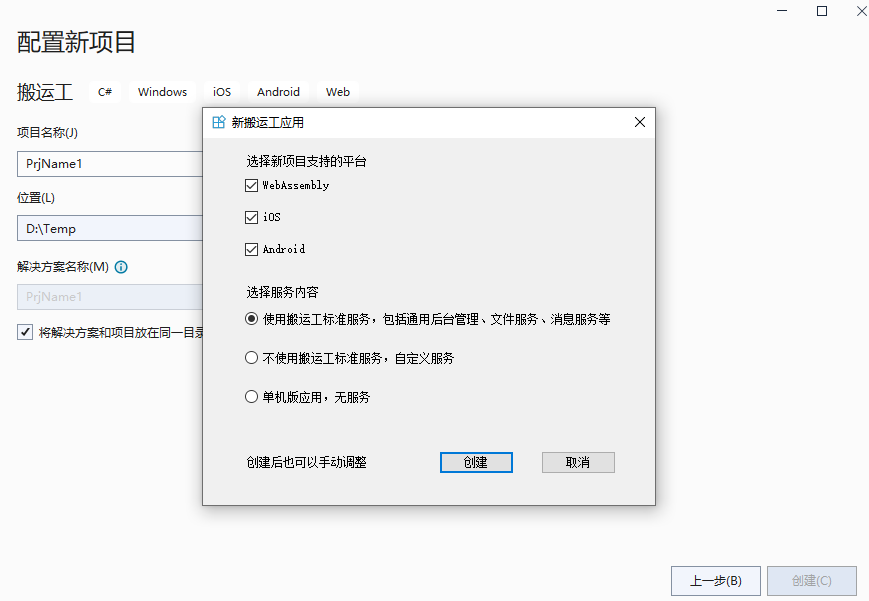
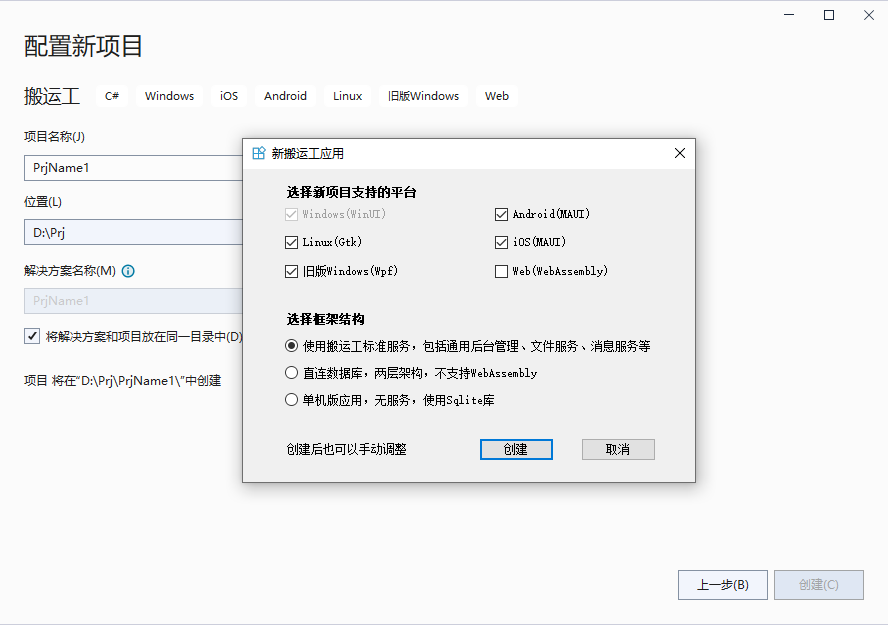
创建空项目

diff --git a/content/1开始/2创建项目/_index.md b/content/1开始/2创建项目/_index.md
@@ -19,13 +19,84 @@ tags: []
 1. 编辑器顶部的横幅可能会要求重新加载项目，单击“重新加载项目”：
 ![](3.png)
 
-1. 至此项目创建成功！
+**至此项目创建成功！**
+
+## 解决方案目录
+解决方案根目录如图所示：
+
+![](3a.png)
+
+* PrjName1.sln 所有客户端项目，4个目标框架
+* PrjName1-svc.sln 只服务
+* PrjName1-win.sln 只net-windows框架
+* PrjName1-android.sln 只net-android框架
+* PrjName1-ios.sln 只net-ios框架
+* PrjName1-skia.sln 只net框架，gtk和wpf项目
+* PrjName1-wasm.sln 只net框架，wasm项目
+
+{{< admonition >}}
+为提高效率，开发时使用 PrjName1-win.sln ，适配不同平台时再打开对应 sln
+{{< /admonition >}}
+
 
 ## 初始化数据库
-搬运工平台包含`cm fsm msg`三个基础微服务，这些服务包括基础菜单、用户、角色、权限、工作流、参数、文件等功能模块，是平台必不可少的基础服务，这些服务用到的数据结构需要在此初始化。
+搬运工平台包含cm fsm msg三个基础微服务，这些服务包括基础菜单、用户、角色、权限、工作流、参数、文件等功能模块，是平台必不可少的基础服务，这些服务用到的数据结构需要在此初始化。
 
-1. 打开Svc项目中的 etc/config/service.json 文件，将顶部的`Mode`节设置为`InitDb`，初始化数据库模式：
-![](30.png)
+平台提供两种方法进行数据库初始化：**通过客户端初始化、通过服务初始化。**
+
+### 通过客户端初始化
+
+{{< admonition >}}
+通过客户端初始化数据库没有连接服务，是纯粹的两层结构，直连数据库
+{{< /admonition >}}
+
+1. VS打开解决方案PrjName1-win.sln，将PrjName1.Win 项目设为启动项目，ctrl + F5 启动应用，因为未启动服务，所以客户端启动后会提示服务器连接失败。
+
+　　![](a1.png)
+
+2. 按下快捷键：ctrl + enter 唤出系统面板，点击**数据库初始化**
+![](a2.png)
+
+1.  显示**数据库初始化**向导，选择您需要的数据库类型，填写连接参数，每种库的参数略有不同，点击连接按钮
+![](a3.png)
+
+1. 连接失败时给出提醒，连接成功后新页面，失败时请根据提醒重新填写参数
+![](a4.png)
+
+1. 填写库名及用户名、密码，三个按钮的功能：
+* 创建新库：将删除旧库重新创建新库
+* 删除库：即删除当前存在的旧库、用户、表空间等，慎用！
+* 连接库导入：表示用当前的用户名、密码登录该库，执行sql脚本
+
+6. 选择创建新库时，若库或用户已存在，将提示确认是否删除旧库重新创建，为避免误操作需要3次确认，底部日志会输出整个创建过程及创建空库成功的消息
+
+　　![](a5.png)
+
+　　![](a6.png)
+
+7. 点击 **连接库导入** 进入新页面，两个按钮：导入初始表结构及数据、导入其它
+![](a7.png)
+
+8. **导入初始表结构及数据** 就是本次初始化数据库的操作，导入前同样提示确认删除同名的表、视图等，通过日志查看导入过程及连接串
+
+　　![](a8.png)
+
+9. **导入其它** 可以选择自己的sql脚本文件，比如搬运工样例的sql脚本文件、自己业务系统的sql文件等
+
+　　![](a9.png)
+
+至此通过客户端初始化数据库完毕！
+
+### 通过服务初始化
+
+{{< admonition >}}
+通过服务初始化只支持导入平台默认初始表结构及数据，无法导入外部sql脚本文件
+{{< /admonition >}}
+
+1. VS打开解决方案PrjName1-svc.sln，打开 etc/config/service.json 文件，将顶部的Mode节设置为InitDb，初始化数据库模式：
+
+![](a10.png)
+
 {{< highlight json "hl_lines=6 9" >}}
 {
   // 设置运行模式，共三种，默认Svc模式
@@ -37,25 +108,28 @@ tags: []
 }
 {{< /highlight >}}
 
-1. 将Svc项目设置为启动项目，ctrl + F5 启动服务，自动打开 https://localhost:1234/.admin 页面:
-![](35.png)
+2. ctrl + F5 启动服务，自动打开 https://localhost:1234/.admin 页面:
+![](a11.png)
 
-1. 选择您需要的数据库类型，填写连接参数，每种库的参数略有不同，点击`连接`按钮
-![](36.png)
+3. 选择您需要的数据库类型，填写连接参数，每种库的参数略有不同，点击连接按钮
+![](a12.png)
 
-1. 连接失败时给出提醒，连接成功后进入创建新库页面
-![](37.png)
+4. 连接失败时给出提醒，连接成功后进入导入库、创建新库页面
+![](a13.png)
 
-1. 填写新库名及新用户名，选择新库内容：
-* `标准库`是搬运工的初始库，包括基础的表、视图、序列、存储过程等；
-* `空库`就是只创建新库，无任何内容；
-* `样例库`是搬运工样例使用的库，除标准库的内容外，还包括测试数据、样例用到的表、视图等；
-![](38.png)
+5. 填写库名及用户名、密码
 
-6. 点击`创建新库`，若库已存在，提示确认是否删除旧库重新创建，避免误操作，底部的日志会输出整个初始化过程及新库的连接串：
-![](39.png)
+　　![](a14.png)
 
-1. 数据库初始化成功后，复制新库的连接串，打开Svc项目的 etc/config/global.json 文件，将连接串粘贴到`Database`节，注意数据库类型一致。global.json 文件存储全局配置，包括应用名称、所有涉及的数据库连接串、rabbitmq配置、redis配置等，是系统内所有微服务需要的公共配置。数据库连接串可以为多个，并支持4种类型数据库，每个服务的默认库是这其中的一个。
+6. 选择**创建新库**时，若库或用户已存在，将提示确认是否删除旧库重新创建，避免误操作，底部的日志会输出整个初始化过程及新库的连接串
+
+　　![](a15.png)
+
+7. 选择**导入库**时将删除旧的同名表、视图等，底部日志会输出整个导入过程细节及库的连接串
+
+　　![](a16.png)
+
+8. 数据库初始化成功后，复制新库的连接串，打开Svc项目的 etc/config/global.json 文件，将连接串粘贴到`Database`节，注意数据库类型一致。global.json 文件存储全局配置，包括应用名称、所有涉及的数据库连接串、rabbitmq配置、redis配置等，是系统内所有微服务需要的公共配置。数据库连接串可以为多个，并支持4种类型数据库，每个服务的默认库是这其中的一个。
 {{< highlight json "hl_lines=5 10 16" >}}
 {
   "App": "PrjName1",
@@ -97,75 +171,139 @@ tags: []
 }
 {{< /highlight >}}
 
-1. 至此初始化数据库完毕！
+至此初始化数据库完毕！
 
-1. 查看Svc项目的 Properties/InitSql/目录下的`sql脚本`，也可以通过手动运行这些`sql脚本`初始化数据库。
-![](34.png)
+## 配置客户端
 
-1. 通过数据库客户端工具查看初始表，4种数据库的初始结构略有不同，如mysql中无序列通过`sequence`模拟：
-![](5.png)
-
-## 启动服务
-1. 将Svc项目设置为启动项目，先确保服务能正常运行，以便客户端连接和使用搬运工扩展添加框架代码
-![](4.png)
-
-1. 生成Svc项目，确保生成成功
-
-1. 开始执行(不调试)(Ctrl + F5)，成功后会打开浏览器显示API目录页面，点击日志可查看启动过程：
-![](8.png)
-
-1. 始终保持Svc运行状态，以备客户端App运行时连接
-
-{{< admonition >}}
-在客户端App运行之前，需要设置服务地址，打开Client项目的 `Stub/AppStub.cs` 文件，将SvcUrl修改为本机IP
-![](12.png)
+{{< admonition>}}
+搬运工客户端支持三种运行模式：单机、两层直连数据库、多层微服务
+* 单机版独立运行，无服务，可使用Sqlite本地库
+* 直连数据库，两层架构，无服务，不支持WebAssembly
+* 多层微服务，使用自定义服务和搬运工标准服务(内核服务、消息服务、文件服务)
 {{< /admonition >}}
 
-## 运行 Windows App
-1. 将Win项目设置为启动项目，F5启动调试，初次运行会显示用户协议和隐私政策对话框
-![](9.png)
+三种运行模式可在Shared项目的Config.json中配置
 
-1. 点击`同意`后进入登录页面，输入预留手机号 `13511111111` ，点击`获取验证码`后，在`验证码`框内 Ctrl + v粘贴，然后点击`登 录`，登录成功后进入主页，若失败可双击标题查看系统日志
-![](10.png)
+![](a17.png)
 
-1. 登录成功后显示主页
+{{< highlight json >}}
+{
+  "Title": "搬运工",
 
-![](11.png "主页")
+  // cm服务地址 或 直连数据库的键名
+  "Server": "https://10.10.1.16:1234",
+  //"Server": "pgdt",
 
-## 运行 Android App
-1. 将Droid项目设置为启动项目，初次运行需要添加Android设备，打开 `Android -> Android设备管理器` 添加设备，创建虚拟机时采用以下镜像不需要另外下载
+  // 可直连数据库列表
+  "Database": {
+    "mydt": {
+      "ConnStr": "Server=10.10.1.2;Port=3306;Database=dt;Uid=dt;Pwd=dt;",
+      "DbType": "mysql"
+    },
+    "orcldt": {
+      "ConnStr": "User Id=dt;Password=dt;Data Source=(DESCRIPTION=(ADDRESS=(PROTOCOL=TCP)(HOST=10.10.1.2)(PORT=1521))(CONNECT_DATA=(SERVICE_NAME=sec)(SERVER=dedicated)))",
+      "DbType": "oracle"
+    },
+    "sqldt": {
+      "ConnStr": "Data Source=10.10.1.2,1433;Initial Catalog=dt;User ID=dt;Password=dt;Encrypt=True;TrustServerCertificate=True;",
+      "DbType": "sqlserver"
+    },
+    "pgdt": {
+      "ConnStr": "Host=10.10.1.2;Port=5432;Database=dt;Username=dt;Password=dt;",
+      "DbType": "postgresql"
+    }
+  }
+}
+{{< /highlight >}}
+
+单机模式只需要指定Title，并且AppStub继承DefaultStub
+
+{{< highlight json >}}
+{
+  "Title": "搬运工",
+}
+{{< /highlight >}}
+
+![](a18.png)
+
+默认将配置成多层微服务模式
+
+{{< highlight json "hl_lines=5" >}}
+{
+  "Title": "搬运工",
+
+  // cm服务地址
+  "Server": "https://10.10.1.16:1234"
+}
+{{< /highlight >}}
+
+## 启动服务
+
+{{< admonition >}}
+本项目以多层微服务模式运行，首先启动服务
+{{< /admonition >}}
+
+1. VS打开解决方案PrjName1-svc.sln，修改etc/config/目录下的 global.json 和 service.json 文件，主要修改数据库连接串
+![](a19.png)
+
+1. 确保生成成功，开始执行(ctrl + F5)，成功后会打开浏览器显示API目录页面，点击日志可查看启动过程：
+![](a20.png)
+
+1. 初次运行服务提示缺少Sqlite文件 model_* ... ，运行cm服务的API UpdateAllSqliteFile
+![](a21.png)
+![](a22.png)
+点击测试方法，将生成所有sqlite文件，日志输出：
+![](a23.png)
+
+1. 始终保持服务运行状态，以便客户端App运行时连接 或 VS开发使用搬运工扩展添加框架代码时连接
+
+1. 在客户端App运行之前，参见上一节配置客户端，需要设置服务地址，将Config.json中的Server修改为本机IP
+![](a24.png)
+
+## 运行 App
+
+### 运行 Windows App
+1. VS打开解决方案PrjName1-win.sln，将PrjName1.Win项目设置为启动项目，F5启动调试，初次运行会显示用户协议和隐私政策对话框
+
+　　![](a25.png)
+
+2. 点击同意后进入登录页面，输入预留手机号13511111111，默认密码1111，然后点击登 录，登录成功后进入主页，若失败可双击标题查看系统日志
+　　![](a26.png)
+
+3. 登录成功后显示主页
+
+![](a27.png "主页")
+
+### 运行 Android App
+1. 打开PrjName1-android.sln，将PrjName1.Droid项目设置为启动项目，初次运行需要添加Android设备，打开 Android -> Android设备管理器 添加设备，创建虚拟机时采用以下镜像不需要另外下载
 ![](13.png "创建虚拟机")
 
 1. F5启动调试，和Windows App相同，初次运行会显示用户协议和隐私政策对话框，登录成功后进入主页
-![](14.png)
-![](15.png)
-![](16.png)
-![](17.png)
+![](a28.png)
 
-## 运行 iOS App
+### 运行 iOS App
 1. 运行 iOS App首先要有台mac设备，mac上环境的安装也得大半天，详细过程参见[与 Mac 配对进行 iOS 开发](https://learn.microsoft.com/zh-cn/dotnet/maui/ios/pair-to-mac?view=net-maui-7.0)
 
 1. 目前在`VS17.4.3`上仍然无法在windows上远程显示模拟器，在 `工具 -> 选项` 中设置
 ![](25.png)
 
-1. F5启动调试，在mac中的模拟器上运行，和Windows App相同
-![](26.png)
-![](27.png)
-![](28.png)
-![](29.png)
+1. 打开PrjName1-ios.sln，将PrjName1.iOS项目设置为启动项目，F5启动调试，在mac中的模拟器上运行，和Android App相同
 
-## 运行 WebAssembly App
-1. 初次生成Wasm项目前还需要很多准备工作，包括 `安装Python`、下载并安装 `Emscripten sdk` (2G多)、下载 `.NET针对Wasm的运行时`，除`安装Python`外，其余两项可在初次生成Wasm项目前自动下载并安装，但因网络不稳定，并且自动安装失败不报错误，造成无法编译时让人摸不着头脑。为了提高初次运行体验，道友们可省去以上所有准备工作，直接下载 [.net for wasm + sqlite压缩包](https://github.com/daoting/dt/releases/latest)，此压缩包已合并sqlite库，生成Wasm项目时不再需要`Emscripten`编译sqlite的静态库.a文件，将下载的压缩文件放在固定目录，并`编辑Wasm项目文件`，修改sdk路径
-![](18.png)
-![](19.png)
 
-1. 将Wasm项目`设为启动项目`并生成，若生成成功，您太幸运了🎉！贫道流下羡慕的泪水，摸索到这一步经历太多的辛酸，如 [编译时间26分钟](https://github.com/unoplatform/Uno.Wasm.Bootstrap/issues/326)
-![](20.png)
+### 运行Skia App
+1. 打开PrjName1-skia.sln，该方案包含两个可启动项目：PrjName1.Gtk、PrjName1.Wpf，PrjName1.Gtk可运行在linux windows上，PrjName1.Wpf可运行在win10以前的老版本windows上，若在windows上运行gtk应用，请参照 [Using the Skia+GTK head](https://platform.uno/docs/articles/features/using-skia-gtk.html?tabs=windows%2Cubuntu1804) 安装运行时。
+
+1. 两个app运行效果除缺少部分动画外其它和Windows App相同
+
+
+### 运行 Web App
+1. 打开PrjName1-wasm.sln，将PrjName1.Wasm项目设置为启动项目
+
+1. 初次生成Wasm项目前还需要很多准备工作，包括安装Python、下载并安装 Emscripten sdk (2G多)、下载.net针对Wasm的运行时，除安装Python外，其余两项可在初次生成Wasm项目前自动下载并安装，但因网络不稳定，并且自动安装失败不报错误，造成无法编译时让人摸不着头脑，希望道友们耐心坚持
+
+1. 若生成成功，您太幸运了 ！贫道流下羡慕的泪水，摸索到这一步经历太多的辛酸，如 [编译时间26分钟](https://github.com/unoplatform/Uno.Wasm.Bootstrap/issues/326)
 
 1. F5启动调试，和Windows App相同，初次运行会显示用户协议和隐私政策对话框，登录成功后进入主页
-![](21.png "用户协议")
-![](22.png "登录")
-![](23.png "主页")
 
 {{< admonition success >}}
 恭喜您，跨平台空应用创建成功！
